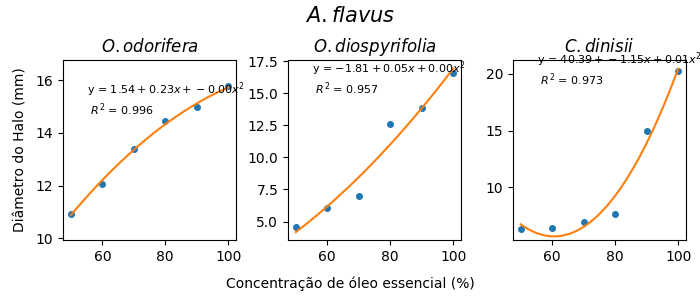
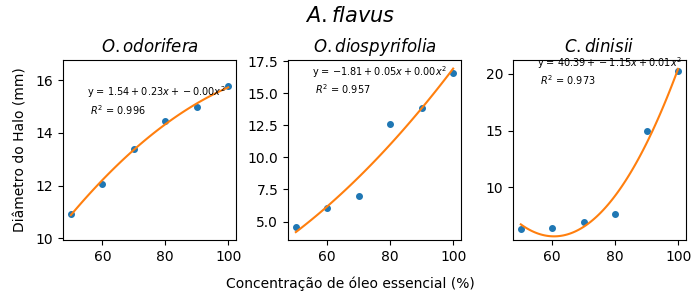
Change text fontsize

Changed region(s): [[0.12, 0.27, 0.36, 0.39], [0.75, 0.18, 1.0, 0.3], [0.45, 0.21, 0.66, 0.33]]

diff --git a/PlotData.py b/PlotData.py
@@ -90,7 +90,7 @@ class PlotData():
         axarr[0].set_ylim(np.min(self.arg[self.param[0]])-1,np.max(self.arg[self.param[0]])+1)
         # axarr[0,0].grid(color='gray',linestyle='--')
         axarr[0].set_title('$\t{%s}$' %(self.param[0]))
-        axarr[0].text(55,np.max(self.arg[self.param[0]])-1, 'y = ' + self.pollatex[0]+'\n $R^2$ = %0.3f' %  (self.rSquare[0]), fontsize=8)
+        axarr[0].text(55,np.max(self.arg[self.param[0]])-1, 'y = ' + self.pollatex[0]+'\n $R^2$ = %0.3f' %  (self.rSquare[0]), fontsize=7)
 
 
         plt2 = axarr[1].plot(self.arg.index, self.arg[self.param[1]], '.', ms=8)
@@ -99,7 +99,7 @@ class PlotData():
         axarr[1].set_ylim(np.min(self.arg[self.param[1]])-1,np.max(self.arg[self.param[1]])+1)
         # axarr[0,1].grid(color='gray',linestyle='--')
         axarr[1].set_title('$\t{%s}$' %(self.param[1]))
-        axarr[1].text(55,np.max(self.arg[self.param[1]])-1.5, 'y = ' + self.pollatex[1]+'\n $R^2$ = %0.3f' %  (self.rSquare[1]), fontsize=8)
+        axarr[1].text(55,np.max(self.arg[self.param[1]])-1.5, 'y = ' + self.pollatex[1]+'\n $R^2$ = %0.3f' %  (self.rSquare[1]), fontsize=7)
 
         plt3 = axarr[2].plot(self.arg.index, self.arg[self.param[2]], '.', ms=8)
         plt3 = axarr[2].plot(ss, self.fitCurve[2],'-')
@@ -107,7 +107,7 @@ class PlotData():
         axarr[2].set_ylim(np.min(self.arg[self.param[2]])-1,np.max(self.arg[self.param[2]])+1)
         # axarr[1,0].grid(color='gray',linestyle='--')
         axarr[2].set_title('$\t{%s}$' %(self.param[2]))
-        axarr[2].text(55,np.max(self.arg[self.param[2]])-1, 'y = ' + self.pollatex[2]+'\n $R^2$ = %0.3f' %  (self.rSquare[2]), fontsize=8)
+        axarr[2].text(55,np.max(self.arg[self.param[2]])-1, 'y = ' + self.pollatex[2]+'\n $R^2$ = %0.3f' %  (self.rSquare[2]), fontsize=7)
 
         if self.savePlot:
             plt.savefig(self.dir + self.figname, format='png')

diff --git a/main.py b/main.py
@@ -11,9 +11,9 @@ from ManageData import ReadData
 from PlotData import PlotData
 import os
 
-filename = 'Dados_Alternaria_Alternata.csv'
+# filename = 'Dados_Alternaria_Alternata.csv'
 # filename = 'Dados_Aspergillus_flavus.csv'
-# filename = 'Dados_Penicillium_crustosum.csv'
+filename = 'Dados_Penicillium_crustosum.csv'
 path = os.getcwd()
 direct = path+'/data/'
 
@@ -22,9 +22,9 @@ direct = path+'/data/'
 colName = ['O. odorifera', 'O. diospyrifolia','C. dinisii',]
 Par = ['Media_odo', 'Media_dio', 'Media_din']
 #
-fungo = 'A. alternata'
+# fungo = 'A. alternata'
 # fungo = 'A. flavus'
-# fungo = 'P. crustosum'
+fungo = 'P. crustosum'
 
 ###################
 
